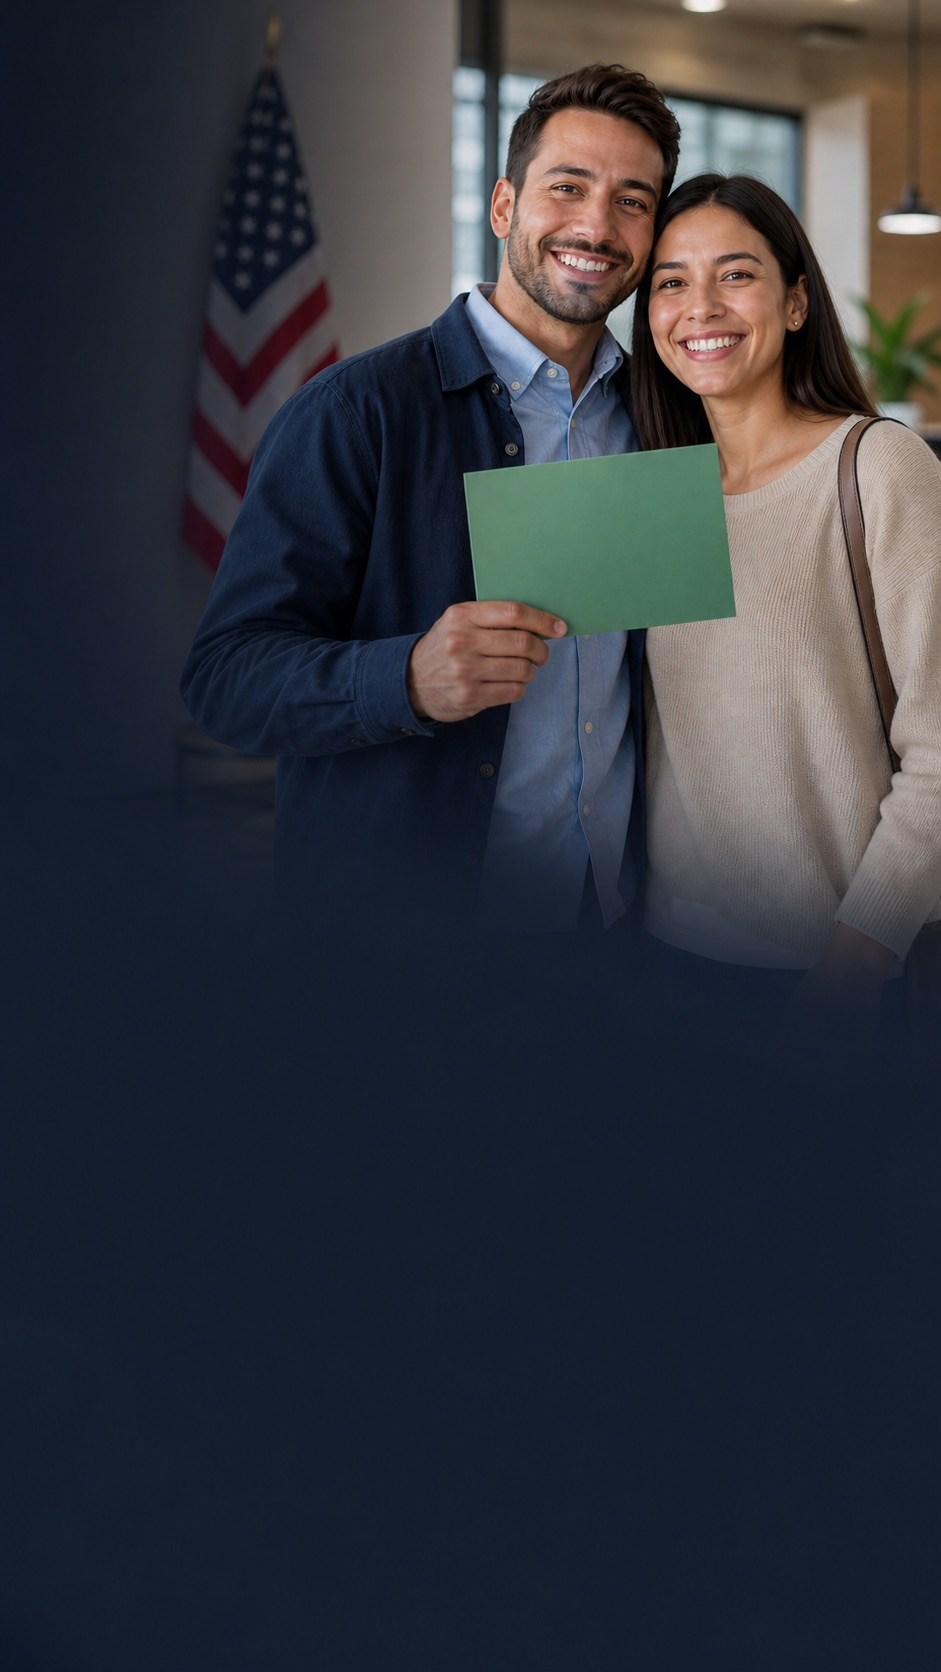
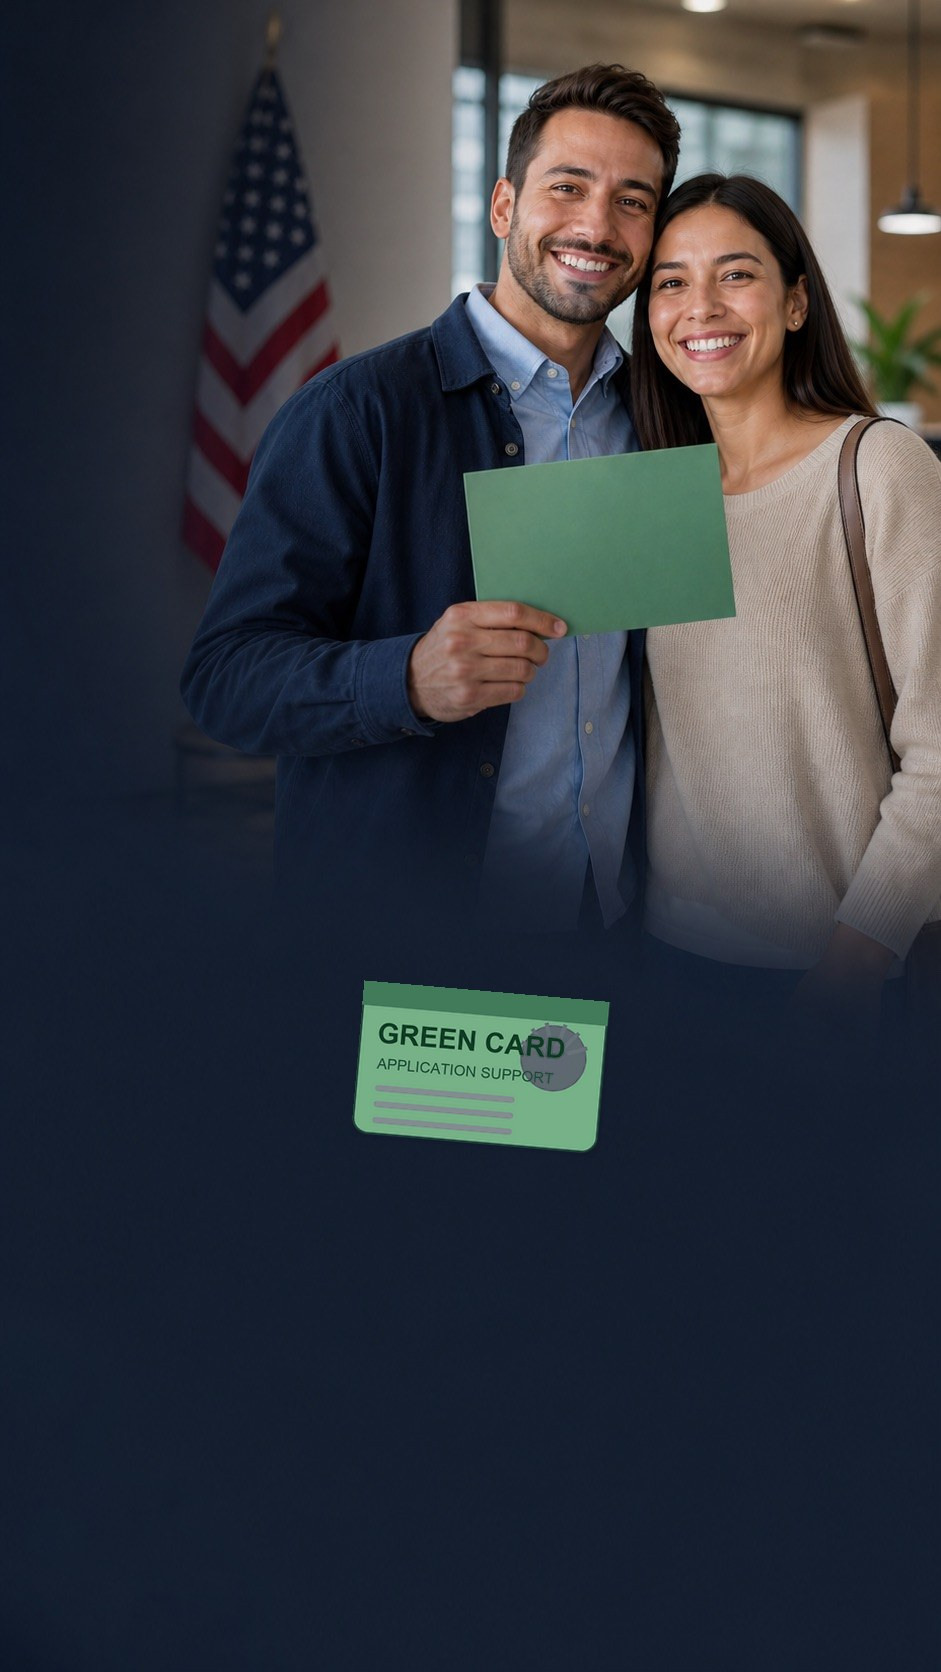
Polish homepage hero carousel

Changed region(s): [[0.3698, 0.5598, 0.6472, 0.7153]]

diff --git a/assets/styles.css b/assets/styles.css
@@ -85,9 +85,10 @@ a {
   height: 42px;
   overflow: hidden;
   background: url("liberty-mark.svg") center / contain no-repeat;
-  border: 1px solid rgba(16, 33, 61, 0.14);
-  border-radius: 8px;
-  box-shadow: 0 6px 14px rgba(23, 32, 51, 0.1);
+  background-color: #fff;
+  border: 1px solid rgba(16, 33, 61, 0.1);
+  border-radius: 10px;
+  box-shadow: 0 8px 18px rgba(16, 33, 61, 0.09);
 }
 
 .brand-mark::before {
@@ -2209,7 +2210,7 @@ small {
   display: grid;
   grid-template-columns: minmax(0, 1fr);
   gap: clamp(18px, 3vw, 44px);
-  min-height: clamp(560px, 72vh, 660px);
+  min-height: clamp(590px, 76vh, 700px);
   align-items: center;
   padding: clamp(44px, 6vw, 74px) clamp(18px, 5vw, 72px) clamp(50px, 6vw, 76px);
   overflow: hidden;
@@ -2275,45 +2276,57 @@ small {
   opacity: 0;
   filter: saturate(0.92);
   transform: scale(1.04);
-  animation: heroPhotoFade 12s infinite;
+  animation: heroPhotoFade 15s infinite;
 }
 
 .hero-photo-slide.is-second {
   background-position: 100% center;
-  animation-delay: 6s;
+  animation-delay: 5s;
+}
+
+.hero-photo-slide.is-third {
+  background-position: center;
+  animation-delay: 10s;
 }
 
 .hero-carousel-dots {
-  position: absolute;
-  left: clamp(18px, 5vw, 72px);
-  bottom: 26px;
-  z-index: 2;
   display: flex;
+  width: fit-content;
   gap: 9px;
   align-items: center;
+  margin-top: 18px;
+  padding: 7px;
+  background: rgba(255, 255, 255, 0.72);
+  border: 1px solid rgba(16, 33, 61, 0.08);
+  border-radius: 999px;
+  box-shadow: 0 10px 24px rgba(16, 33, 61, 0.08);
+  backdrop-filter: blur(10px);
 }
 
 .hero-carousel-dots span {
-  width: 9px;
-  height: 9px;
-  background: rgba(255, 255, 255, 0.42);
+  width: 8px;
+  height: 8px;
+  background: rgba(16, 33, 61, 0.22);
   border-radius: 999px;
-  box-shadow: 0 0 0 1px rgba(255, 255, 255, 0.18);
-  animation: heroDotFade 12s infinite;
+  animation: heroDotFade 15s infinite;
 }
 
 .hero-carousel-dots span:nth-child(2) {
-  animation-delay: 6s;
+  animation-delay: 5s;
+}
+
+.hero-carousel-dots span:nth-child(3) {
+  animation-delay: 10s;
 }
 
 @keyframes heroPhotoFade {
   0%,
-  45% {
+  28% {
     opacity: 1;
   }
 
-  50%,
-  95% {
+  33%,
+  94% {
     opacity: 0;
   }
 
@@ -2324,20 +2337,20 @@ small {
 
 @keyframes heroDotFade {
   0%,
-  45% {
-    width: 28px;
-    background: #fff;
+  28% {
+    width: 26px;
+    background: var(--blue);
   }
 
-  50%,
-  95% {
-    width: 9px;
-    background: rgba(255, 255, 255, 0.42);
+  33%,
+  94% {
+    width: 8px;
+    background: rgba(16, 33, 61, 0.22);
   }
 
   100% {
-    width: 28px;
-    background: #fff;
+    width: 26px;
+    background: var(--blue);
   }
 }
 
@@ -2693,6 +2706,10 @@ small {
     background-position: 61% top;
   }
 
+  .hero-photo-slide.is-third {
+    background-position: 74% center;
+  }
+
   .toc {
     position: static;
   }
@@ -2721,15 +2738,21 @@ small {
   }
 
   .hero-photo-slide.is-first {
-    background-image: url("images/hero/green-card-family-mobile.jpg?v=20260612-higher") !important;
+    background-image: url("images/hero/green-card-family-mobile.jpg?v=20260707-card") !important;
     background-position: 52% 45%;
     background-size: cover;
     transform: scale(1.02);
   }
 
   .hero-photo-slide.is-second {
-    background-image: url("images/hero/green-card-couple-mobile.jpg?v=20260612-higher") !important;
+    background-image: url("images/hero/green-card-couple-mobile.jpg?v=20260707-card") !important;
     background-position: 54% center;
+    background-size: cover;
+    transform: scale(1.02);
+  }
+
+  .hero-photo-slide.is-third {
+    background-position: 72% center;
     background-size: cover;
     transform: scale(1.02);
   }
@@ -2754,6 +2777,10 @@ small {
   }
 
   .hero-photo-slide.is-second {
+    opacity: 0;
+  }
+
+  .hero-photo-slide.is-third {
     opacity: 0;
   }
 }

diff --git a/index.html b/index.html
@@ -62,7 +62,7 @@
       href="assets/images/hero/green-card-family.jpg"
       as="image"
     />
-    <link rel="stylesheet" href="assets/styles.css?v=20260707-hero-tight" />
+    <link rel="stylesheet" href="assets/styles.css?v=20260707-hero-polish" />
   </head>
   <body>
     <header class="site-header">
@@ -149,6 +149,12 @@
               background-image: url(&quot;assets/images/hero/green-card-couple.jpg&quot;);
             "
           ></div>
+          <div
+            class="hero-photo-slide is-third"
+            style="
+              background-image: url(&quot;assets/images/hero/green-card-collage.jpg&quot;);
+            "
+          ></div>
         </div>
         <div class="hero-content">
           <p class="eyebrow">Diversity Visa application support</p>
@@ -172,14 +178,15 @@
               Notify me
             </button>
           </div>
+          <div class="hero-carousel-dots" aria-label="Hero image rotation">
+            <span></span>
+            <span></span>
+            <span></span>
+          </div>
           <p class="micro-disclaimer">
             Not a law firm. Not legal advice. Not affiliated with USCIS or the
             U.S. Department of State.
           </p>
-        </div>
-        <div class="hero-carousel-dots" aria-hidden="true">
-          <span></span>
-          <span></span>
         </div>
       </section>
 

diff --git a/requirements.html b/requirements.html
@@ -66,7 +66,7 @@
 
     <title>Application Requirements | Green Card Services</title>
     <link rel="icon" href="assets/liberty-mark.svg" type="image/svg+xml" />
-    <link rel="stylesheet" href="assets/styles.css?v=20260707-hero-tight" />
+    <link rel="stylesheet" href="assets/styles.css?v=20260707-hero-polish" />
   </head>
   <body class="requirements-page">
     <header class="site-header">

diff --git a/married-couples.html b/married-couples.html
@@ -58,7 +58,7 @@
 
     <title>Green Card Lottery for Married Couples | Green Card Services</title>
     <link rel="icon" href="assets/liberty-mark.svg" type="image/svg+xml" />
-    <link rel="stylesheet" href="assets/styles.css?v=20260707-hero-tight" />
+    <link rel="stylesheet" href="assets/styles.css?v=20260707-hero-polish" />
   </head>
   <body>
     <header class="site-header">

diff --git a/living-in-usa.html b/living-in-usa.html
@@ -58,7 +58,7 @@
 
     <title>DV Lottery While Living in the U.S. | Green Card Services</title>
     <link rel="icon" href="assets/liberty-mark.svg" type="image/svg+xml" />
-    <link rel="stylesheet" href="assets/styles.css?v=20260707-hero-tight" />
+    <link rel="stylesheet" href="assets/styles.css?v=20260707-hero-polish" />
   </head>
   <body>
     <header class="site-header">

diff --git a/green-card-lottery-kazakhstan.html b/green-card-lottery-kazakhstan.html
@@ -58,7 +58,7 @@
 
     <title>Green Card Lottery for Kazakhstan | Green Card Services</title>
     <link rel="icon" href="assets/liberty-mark.svg" type="image/svg+xml" />
-    <link rel="stylesheet" href="assets/styles.css?v=20260707-hero-tight" />
+    <link rel="stylesheet" href="assets/styles.css?v=20260707-hero-polish" />
   </head>
   <body>
     <header class="site-header">

diff --git a/green-card-lottery-kyrgyzstan.html b/green-card-lottery-kyrgyzstan.html
@@ -58,7 +58,7 @@
 
     <title>Green Card Lottery for Kyrgyzstan | Green Card Services</title>
     <link rel="icon" href="assets/liberty-mark.svg" type="image/svg+xml" />
-    <link rel="stylesheet" href="assets/styles.css?v=20260707-hero-tight" />
+    <link rel="stylesheet" href="assets/styles.css?v=20260707-hero-polish" />
   </head>
   <body>
     <header class="site-header">

diff --git a/green-card-lottery-tajikistan.html b/green-card-lottery-tajikistan.html
@@ -58,7 +58,7 @@
 
     <title>Green Card Lottery for Tajikistan | Green Card Services</title>
     <link rel="icon" href="assets/liberty-mark.svg" type="image/svg+xml" />
-    <link rel="stylesheet" href="assets/styles.css?v=20260707-hero-tight" />
+    <link rel="stylesheet" href="assets/styles.css?v=20260707-hero-polish" />
   </head>
   <body>
     <header class="site-header">

diff --git a/green-card-lottery-uzbekistan.html b/green-card-lottery-uzbekistan.html
@@ -58,7 +58,7 @@
 
     <title>Green Card Lottery for Uzbekistan | Green Card Services</title>
     <link rel="icon" href="assets/liberty-mark.svg" type="image/svg+xml" />
-    <link rel="stylesheet" href="assets/styles.css?v=20260707-hero-tight" />
+    <link rel="stylesheet" href="assets/styles.css?v=20260707-hero-polish" />
   </head>
   <body>
     <header class="site-header">

diff --git a/eligible-countries.html b/eligible-countries.html
@@ -58,7 +58,7 @@
 
     <title>DV Lottery Eligible Countries | Green Card Services</title>
     <link rel="icon" href="assets/liberty-mark.svg" type="image/svg+xml" />
-    <link rel="stylesheet" href="assets/styles.css?v=20260707-hero-tight" />
+    <link rel="stylesheet" href="assets/styles.css?v=20260707-hero-polish" />
   </head>
   <body>
     <header class="site-header">

diff --git a/guide.html b/guide.html
@@ -66,7 +66,7 @@
 
     <title>DV Lottery Guide | Green Card Application Services</title>
     <link rel="icon" href="assets/liberty-mark.svg" type="image/svg+xml" />
-    <link rel="stylesheet" href="assets/styles.css?v=20260707-hero-tight" />
+    <link rel="stylesheet" href="assets/styles.css?v=20260707-hero-polish" />
   </head>
   <body>
     <header class="site-header">

diff --git a/language-country-support.html b/language-country-support.html
@@ -58,7 +58,7 @@
 
     <title>Language and Country Support | Green Card Services</title>
     <link rel="icon" href="assets/liberty-mark.svg" type="image/svg+xml" />
-    <link rel="stylesheet" href="assets/styles.css?v=20260707-hero-tight" />
+    <link rel="stylesheet" href="assets/styles.css?v=20260707-hero-polish" />
   </head>
   <body>
     <header class="site-header">
